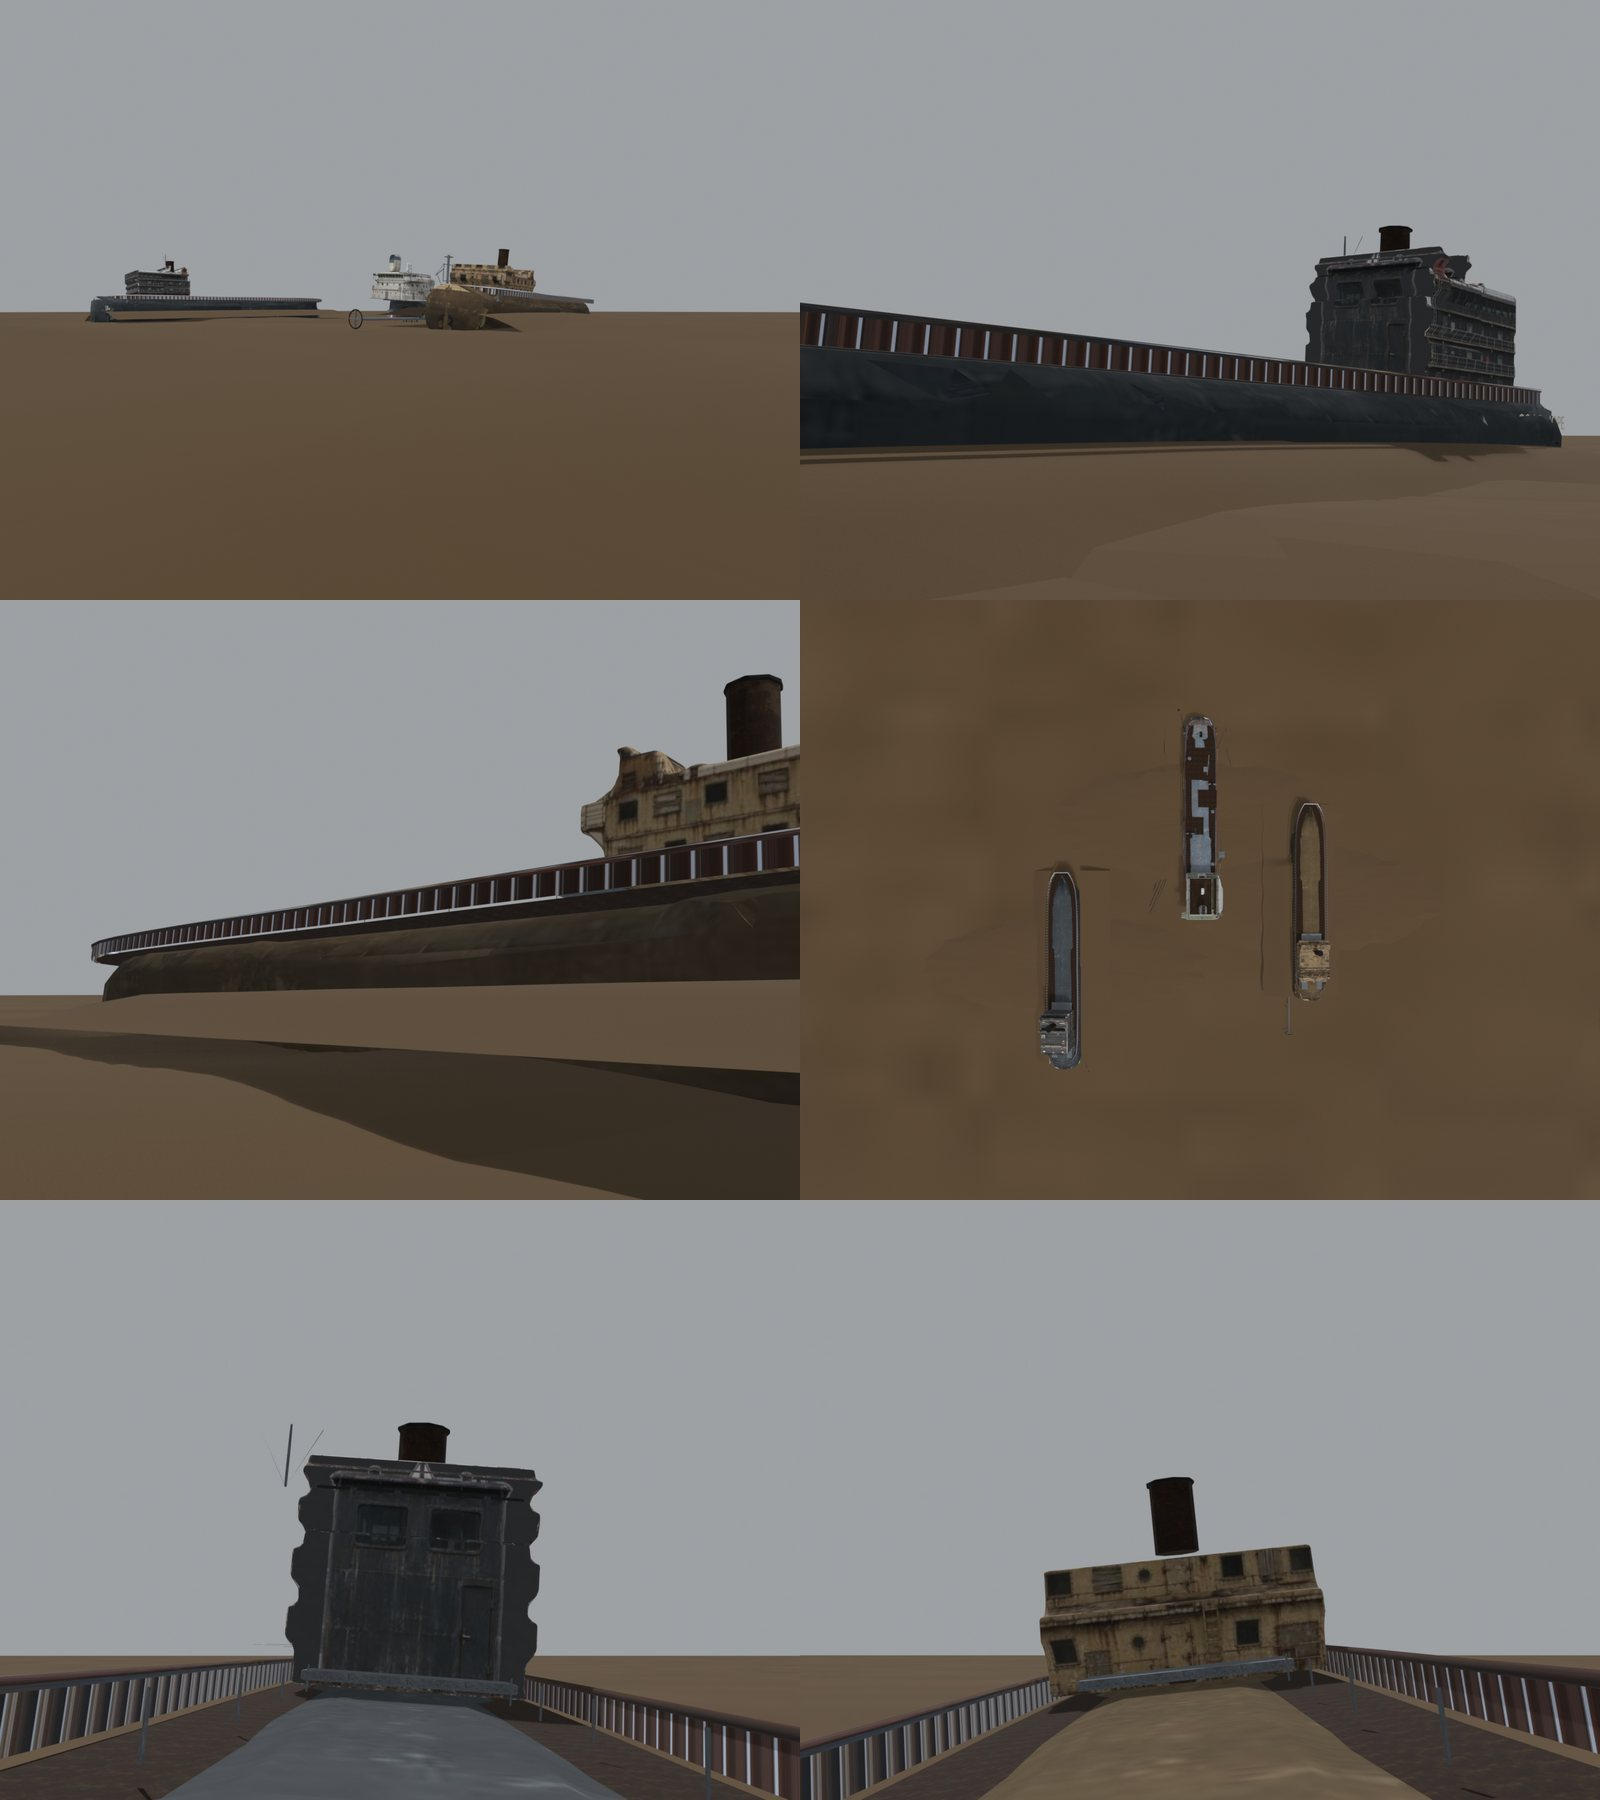
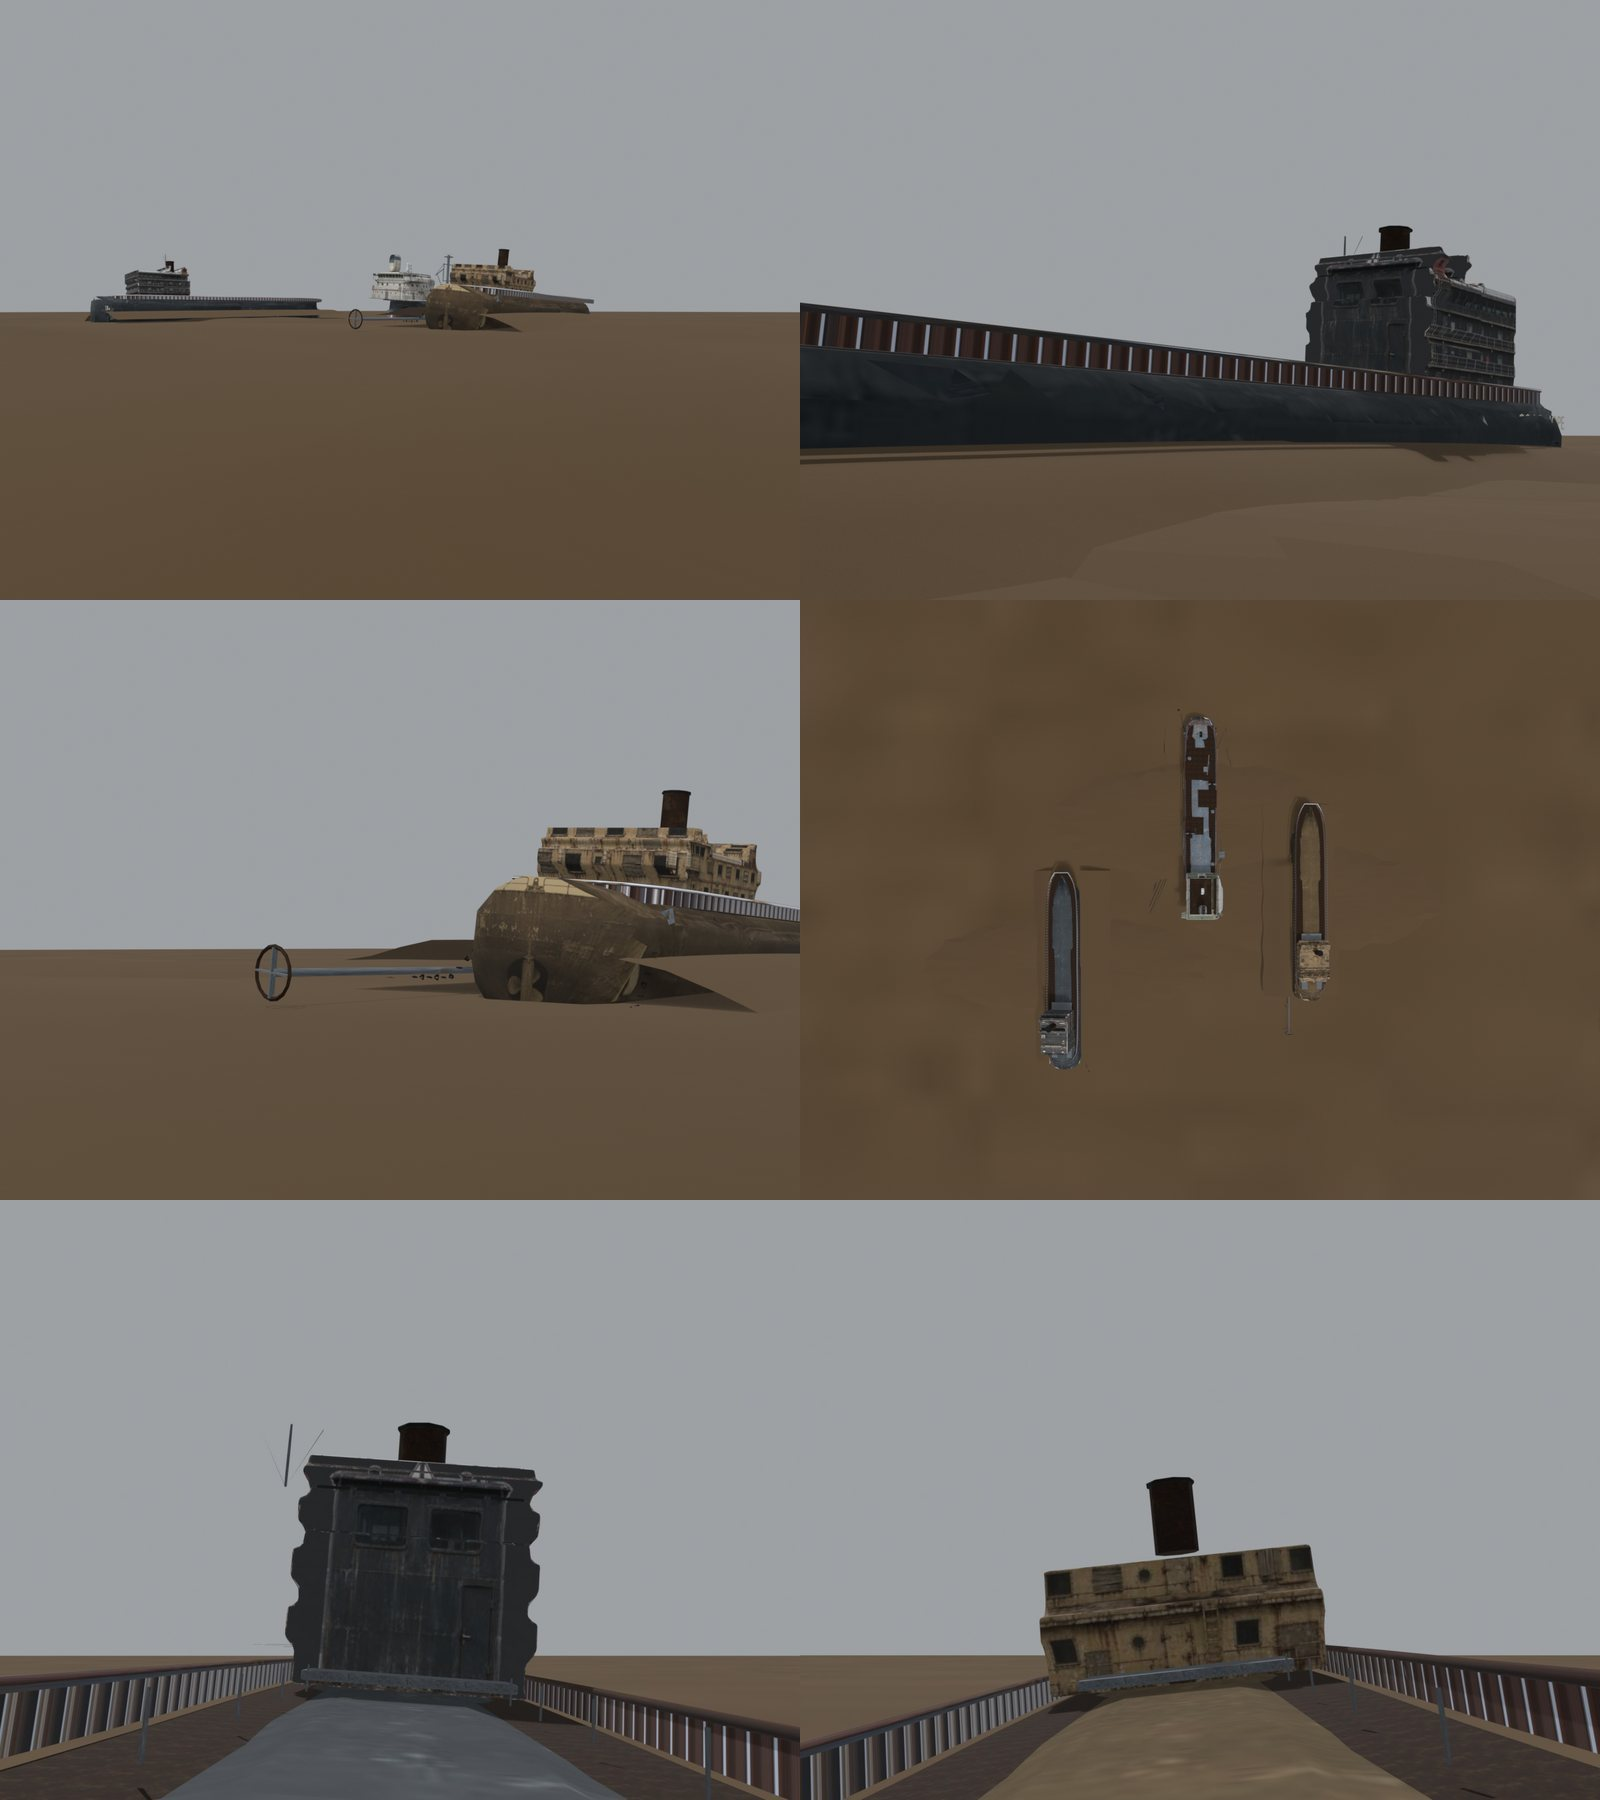
Refine Marigold stern review view

Changed region(s): [[0.0, 0.3733, 0.5, 0.6844]]

diff --git a/tools/blender/scablands-ships.py b/tools/blender/scablands-ships.py
@@ -1374,7 +1374,7 @@ def render_imported_review():
     add_camera('review-camera-whole', (-35, 1.2, -330), (5, 4, -440), 120, (1200, 900))
     review_scene.objects['review-camera-whole'].data.lens = 24
     add_camera('review-camera-hope', (-73, 1.2, -444), (-45, 8, -415), 40, (1200, 900))
-    add_camera('review-camera-marigold', (17, 1.2, -410), (45, 6, -440), 40, (1200, 900))
+    add_camera('review-camera-marigold', (70, 1.2, -365), (38, 4, -400), 40, (1200, 900))
     add_camera('review-camera-patience', (-23, 1.2, -500), (5, 7, -470), 40, (1200, 900))
     add_camera('review-camera-above', (5, 150, -440), (5, 3, -440), 150, (1200, 900))
     add_camera('review-camera-deck-good-hope', (-45, 5.7, -430), (-45, 8.5, -415), 32, (1200, 900))

diff --git a/docs/changes/WW-ART-SHIPS.md b/docs/changes/WW-ART-SHIPS.md
@@ -305,7 +305,7 @@ Cabins: carved the Good Hope's 14 x 9 x 9 m accommodation block and the Marigold
 
 ## Round 13, sheet and review (7 November 2026)
 
-- Rendered six views from the exported GLB imported into an empty Blender scene, inspected each view, and made a 1600 x 1800 JPG sheet at 115,134 bytes. Updated only the whole-fleet review camera and the deck-view review camera in the Blender script; no ship geometry or materials changed. The camera work keeps all three ships in the fleet and overhead panels; close framing remains imperfect and is recorded for Claude.
+- Rendered six views from the exported GLB imported into an empty Blender scene, inspected each view, and made a 1600 x 1800 JPG sheet at 109,673 bytes. Updated only the whole-fleet, deck-view and Marigold stern review cameras in the Blender script; no ship geometry or materials changed. The camera work keeps all three ships in the fleet and overhead panels; the Marigold stern view now includes her shaft and propeller. Close framing remains imperfect and is recorded for Claude.
 - `tools/test-blender-output.mjs`: passed, 381 checks, 0 failed. `tools/test-repo-hygiene.mjs`: passed; size targets are advisory. No lane tier, build, browser check or frame check was run for this art-only task. Changed assertions: none. Race fingerprints: none.
 - Claude should judge all six views, especially the Good Hope bow angle and the pale cabin/smooth sand against the rusty hulls.
 

diff --git a/docs/board/looks/ww-art-ships/round-13-review.md b/docs/board/looks/ww-art-ships/round-13-review.md
@@ -2,7 +2,7 @@
 
 Date: 7 November 2026  
 Build: Blender 4.5.13 LTS; all six views rendered from the exported GLB imported into an empty scene  
-Sheet: `round-13.jpg` (1600 x 1800, 115,134 bytes)
+Sheet: `round-13.jpg` (1600 x 1800, 109,673 bytes)
 
 ## Triangle counts
 
